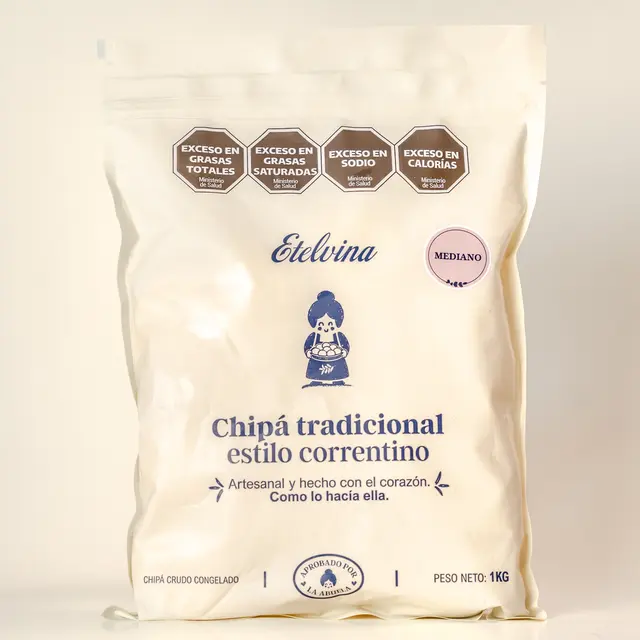
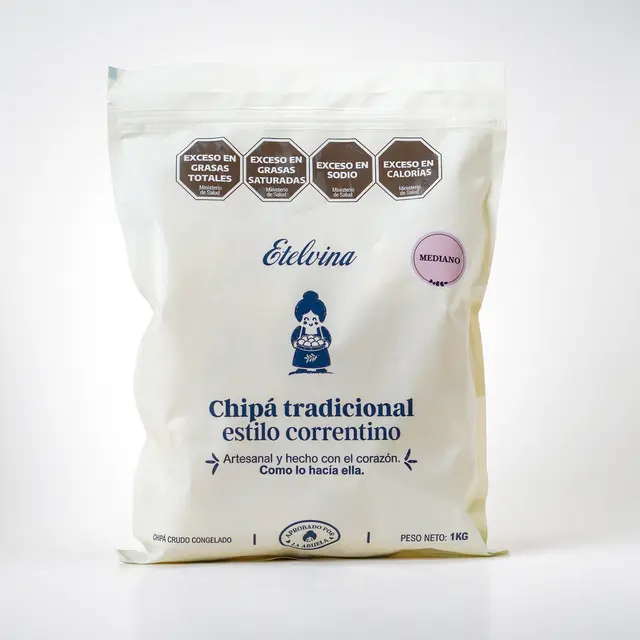
Fotos de producto nuevas: cada bolsa (1, 2 y 5 kg) cambia de foto según el tamaño de chipá
Claude-Session: https://claude.ai/code/session_01MRHbbmiBih28bLt63FLMr5

diff --git a/index.html b/index.html
@@ -25,7 +25,7 @@
   <link rel="stylesheet" href="https://use.typekit.net/tqk6yym.css">
   <link rel="preload" href="/assets/fonts/caveat-latin-600-normal.woff2" as="font" type="font/woff2" crossorigin>
   <link rel="preload" as="image" href="/assets/img/abuela-9642-900.webp" imagesrcset="/assets/img/abuela-9642-900.webp 900w, /assets/img/abuela-9642-1800.webp 1800w" imagesizes="(min-width: 960px) 58vw, 100vw">
-  <link rel="stylesheet" href="/assets/css/styles.css?v=42">
+  <link rel="stylesheet" href="/assets/css/styles.css?v=43">
 
   <script type="application/ld+json">
   {
@@ -186,7 +186,7 @@
 
           <li class="prod" data-prod data-kg="1">
             <div class="prod__media">
-              <img data-prod-img src="/assets/img/bolsa-1kg-mediano-640.webp?v=2" srcset="/assets/img/bolsa-1kg-mediano-640.webp?v=2 640w, /assets/img/bolsa-1kg-mediano-1200.webp?v=2 1200w" sizes="(min-width: 960px) 30vw, 72vw" alt="Bolsa de 1 kg de chipá Etelvina, tamaño mediano" width="1200" height="1200" loading="lazy">
+              <img data-prod-img src="/assets/img/bolsa-1kg-mediano-640.webp?v=3" srcset="/assets/img/bolsa-1kg-mediano-640.webp?v=3 640w, /assets/img/bolsa-1kg-mediano-1200.webp?v=3 1200w" sizes="(min-width: 960px) 30vw, 72vw" alt="Bolsa de 1 kg de chipá Etelvina, tamaño mediano" width="1200" height="1200" loading="lazy">
               <span class="prod__tag">Para la casa</span>
             </div>
             <div class="prod__body">
@@ -214,7 +214,7 @@
 
           <li class="prod" data-prod data-kg="2">
             <div class="prod__media">
-              <img src="/assets/img/bolsa-2kg-640.webp" srcset="/assets/img/bolsa-2kg-640.webp 640w, /assets/img/bolsa-2kg-1200.webp 1200w" sizes="(min-width: 960px) 30vw, 72vw" alt="Bolsa de 2 kg de chipá Etelvina congelado" width="1200" height="1200" loading="lazy">
+              <img data-prod-img src="/assets/img/bolsa-2kg-mediano-640.webp?v=3" srcset="/assets/img/bolsa-2kg-mediano-640.webp?v=3 640w, /assets/img/bolsa-2kg-mediano-1200.webp?v=3 1200w" sizes="(min-width: 960px) 30vw, 72vw" alt="Bolsa de 2 kg de chipá Etelvina, tamaño mediano" width="1200" height="1200" loading="lazy">
               <span class="prod__tag">Para la familia</span>
             </div>
             <div class="prod__body">
@@ -242,7 +242,7 @@
 
           <li class="prod" data-prod data-kg="5">
             <div class="prod__media">
-              <img src="/assets/img/bolsa-5kg-640.webp" srcset="/assets/img/bolsa-5kg-640.webp 640w, /assets/img/bolsa-5kg-1200.webp 1200w" sizes="(min-width: 960px) 30vw, 72vw" alt="Bolsa de 5 kg de chipá Etelvina congelado" width="1200" height="1200" loading="lazy">
+              <img data-prod-img src="/assets/img/bolsa-5kg-mediano-640.webp?v=3" srcset="/assets/img/bolsa-5kg-mediano-640.webp?v=3 640w, /assets/img/bolsa-5kg-mediano-1200.webp?v=3 1200w" sizes="(min-width: 960px) 30vw, 72vw" alt="Bolsa de 5 kg de chipá Etelvina, tamaño mediano" width="1200" height="1200" loading="lazy">
               <span class="prod__tag">Para eventos y gastronomía</span>
             </div>
             <div class="prod__body">
@@ -577,8 +577,8 @@
     <symbol id="i-wa" viewBox="0 0 24 24"><path fill="currentColor" d="M19.05 4.91A9.82 9.82 0 0 0 12.04 2C6.58 2 2.13 6.45 2.13 11.91c0 1.75.46 3.45 1.32 4.95L2.05 22l5.25-1.38c1.45.79 3.08 1.21 4.74 1.21 5.46 0 9.91-4.45 9.91-9.91 0-2.65-1.03-5.14-2.9-7.01Zm-7.01 15.24c-1.48 0-2.93-.4-4.2-1.15l-.3-.18-3.12.82.83-3.04-.2-.31a8.26 8.26 0 0 1-1.26-4.38c0-4.54 3.7-8.24 8.24-8.24 2.2 0 4.27.86 5.82 2.42a8.18 8.18 0 0 1 2.41 5.83c.01 4.54-3.68 8.23-8.22 8.23Zm4.52-6.16c-.25-.12-1.47-.72-1.69-.81-.23-.08-.39-.12-.56.12-.17.25-.64.81-.78.97-.14.17-.29.19-.54.06-.25-.12-1.05-.39-1.99-1.23-.74-.66-1.23-1.47-1.38-1.72-.14-.25-.02-.38.11-.51.11-.11.25-.29.37-.43.12-.14.17-.25.25-.41.08-.17.04-.31-.02-.43-.06-.12-.56-1.34-.76-1.84-.2-.48-.41-.42-.56-.43h-.48c-.17 0-.43.06-.66.31-.22.25-.86.85-.86 2.07 0 1.22.89 2.4 1.01 2.56.12.17 1.75 2.67 4.23 3.74.59.26 1.05.41 1.41.52.59.19 1.13.16 1.56.1.48-.07 1.47-.6 1.67-1.18.21-.58.21-1.07.14-1.18-.06-.1-.22-.16-.47-.28Z"/></symbol>
   </svg>
 
-  <script src="/assets/js/main.js?v=42" defer></script>
-  <script src="/assets/js/chipas.js?v=42" defer></script>
-  <script src="/assets/js/viaje.js?v=42" defer></script>
+  <script src="/assets/js/main.js?v=43" defer></script>
+  <script src="/assets/js/chipas.js?v=43" defer></script>
+  <script src="/assets/js/viaje.js?v=43" defer></script>
 </body>
 </html>

diff --git a/assets/js/main.js b/assets/js/main.js
@@ -30,10 +30,10 @@
 
   /* ---------- Pedido: bolsas + tamaño + cantidad → un solo WhatsApp ---------- */
   const PER_KG = { 'pequeño': 40, mediano: 16, grande: 12 }; // aprox. unidades por kilo
-  const IMG = { 1: '/assets/img/bolsa-1kg-mediano-640.webp?v=2', 2: '/assets/img/bolsa-2kg-640.webp', 5: '/assets/img/bolsa-5kg-640.webp' };
+  const IMG = { 1: 1, 2: 1, 5: 1 }; // bolsas disponibles
   const SLUG = { 'pequeño': 'pequeno', mediano: 'mediano', grande: 'grande' };
-  // la bolsa de 1 kg tiene foto propia para cada tamaño de chipá
-  const imgFor = (kg, size) => (kg === 1 ? `/assets/img/bolsa-1kg-${SLUG[size]}-640.webp?v=2` : IMG[kg]);
+  // cada bolsa tiene foto propia para cada tamaño de chipá
+  const imgFor = (kg, size) => `/assets/img/bolsa-${kg}kg-${SLUG[size]}-640.webp?v=3`;
   const MAX_QTY = 50;
   const cardSyncs = [];
   const store = {
@@ -115,15 +115,15 @@
     const addBtn = $('[data-add]', card);
     const size = () => ($('input[type=radio]:checked', card) || {}).value || 'mediano';
     const photo = $('[data-prod-img]', card);
-    if (photo) Object.values(SLUG).forEach((sl) => { const im = new Image(); im.src = `/assets/img/bolsa-1kg-${sl}-640.webp?v=2`; });
+    if (photo) Object.values(SLUG).forEach((sl) => { const im = new Image(); im.src = `/assets/img/bolsa-${kg}kg-${sl}-640.webp?v=3`; });
     const sync = () => {
       const s = size(); const q = qtyOf(kg, s); const n = PER_KG[s] * kg;
       if (photo) {
-        const base = `/assets/img/bolsa-1kg-${SLUG[s]}`;
+        const base = `/assets/img/bolsa-${kg}kg-${SLUG[s]}`;
         if (!photo.src.includes(base)) {
-          photo.srcset = `${base}-640.webp?v=2 640w, ${base}-1200.webp?v=2 1200w`;
-          photo.src = `${base}-640.webp?v=2`;
-          photo.alt = `Bolsa de 1 kg de chipá Etelvina, tamaño ${s}`;
+          photo.srcset = `${base}-640.webp?v=3 640w, ${base}-1200.webp?v=3 1200w`;
+          photo.src = `${base}-640.webp?v=3`;
+          photo.alt = `Bolsa de ${kg} kg de chipá Etelvina, tamaño ${s}`;
         }
       }
       val.textContent = q;
